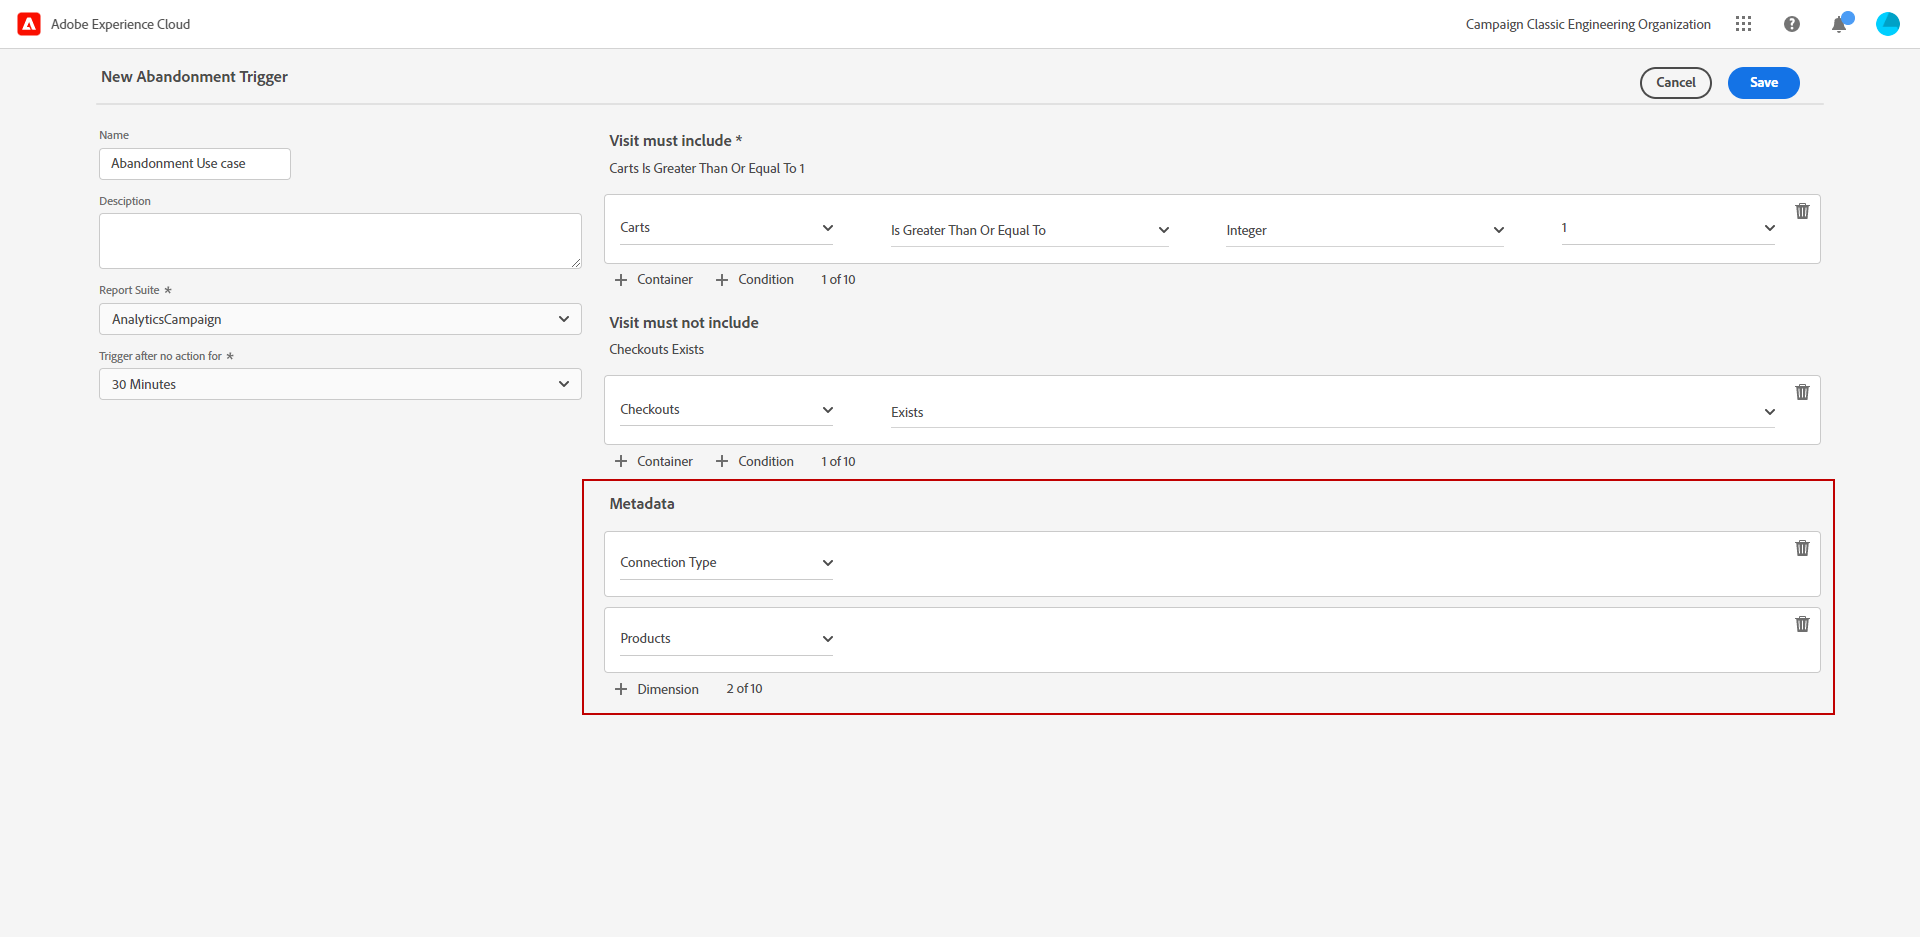
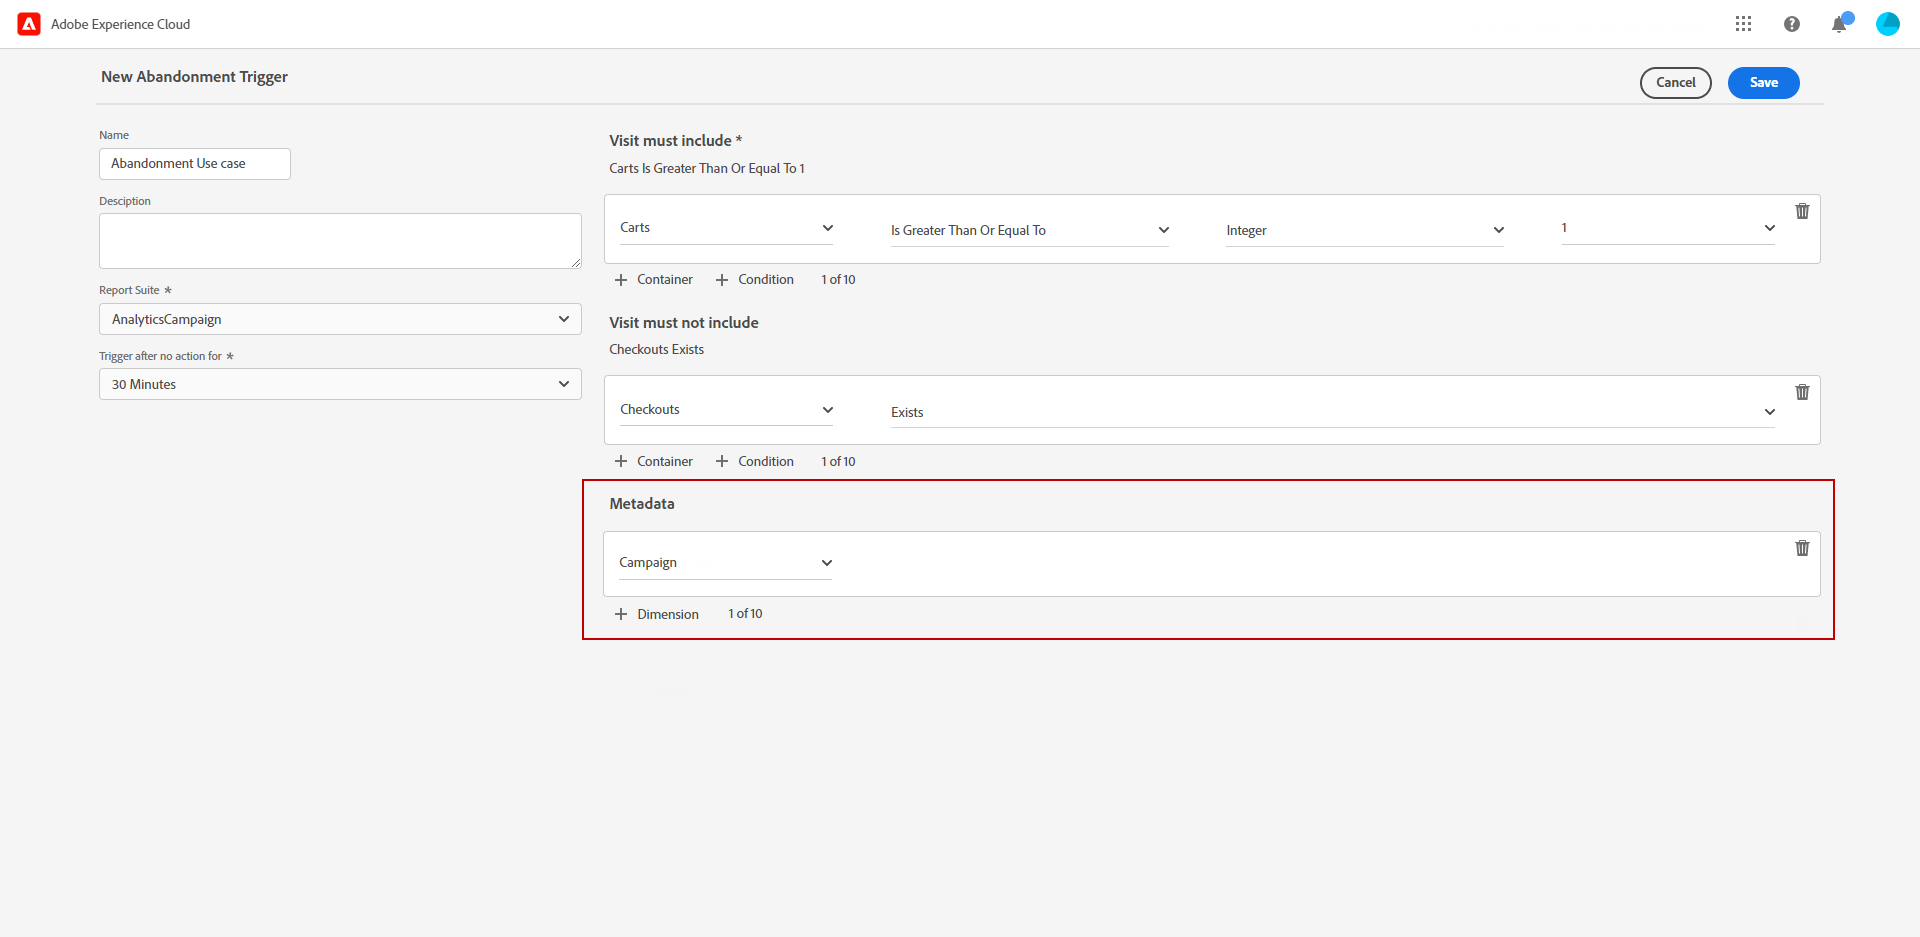
triggers review

Changed region(s): [[0.3125, 0.6499, 0.4375, 0.7428], [0.75, 0.0, 0.9062, 0.0309], [0.3125, 0.588, 0.375, 0.619]]

diff --git a/help/triggers/create.md b/help/triggers/create.md
@@ -6,6 +6,10 @@ description: Discover Adobe Experience Cloud Triggers UI
 
 Create a trigger and configure the conditions for the trigger. For example, you can specify the criteria for a trigger's rules during a visit, such as metrics like Cart Abandon, or dimensions like the product name. When the rules are met, the trigger runs.
 
+1. In the Experience Cloud, select the advanced menu, then Triggers.
+
+    ![](assets/triggers_7.png)
+
 1. From your Trigger homepage, click **[!UICONTROL Create Trigger]**, then specify the type of trigger.
 
     Three types of triggers are available:
@@ -35,7 +39,11 @@ Create a trigger and configure the conditions for the trigger. For example, you 
 
     ![](assets/triggers_2.png)
 
-1. From the **[!UICONTROL Meta Data]** field, click **[!UICONTROL + Dimension]** to choose a particular Campaign dimension or variables that are relevant to a visitor’s behavior.
+1. Click **[!UICONTROL Container]** to establish and save rules, conditions, or filters that define a trigger. To make events happen at the same time, you should place them in the same container. 
+
+    Each container processes independently at the hit level, meaning that if two containers are joined with the **[!UICONTROL And]** operator, the rules will only qualify when two hits meet the requirements.
+
+1. From the **[!UICONTROL Metadata]** field, click **[!UICONTROL + Dimension]** to choose a particular Campaign dimension or variables that are relevant to a visitor’s behavior.
 
     ![](assets/triggers_3.png)
 
